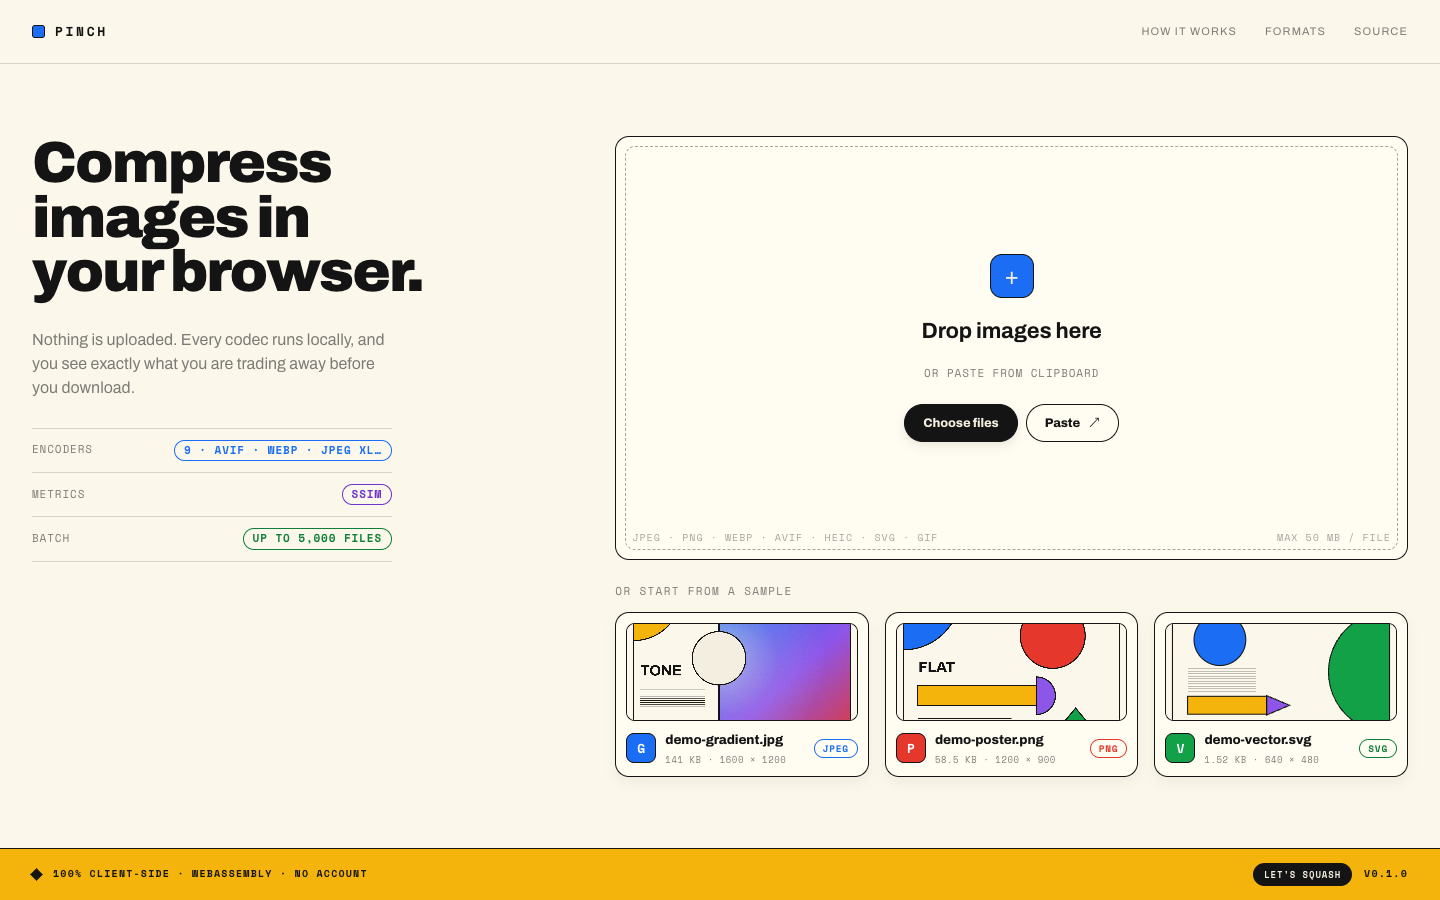
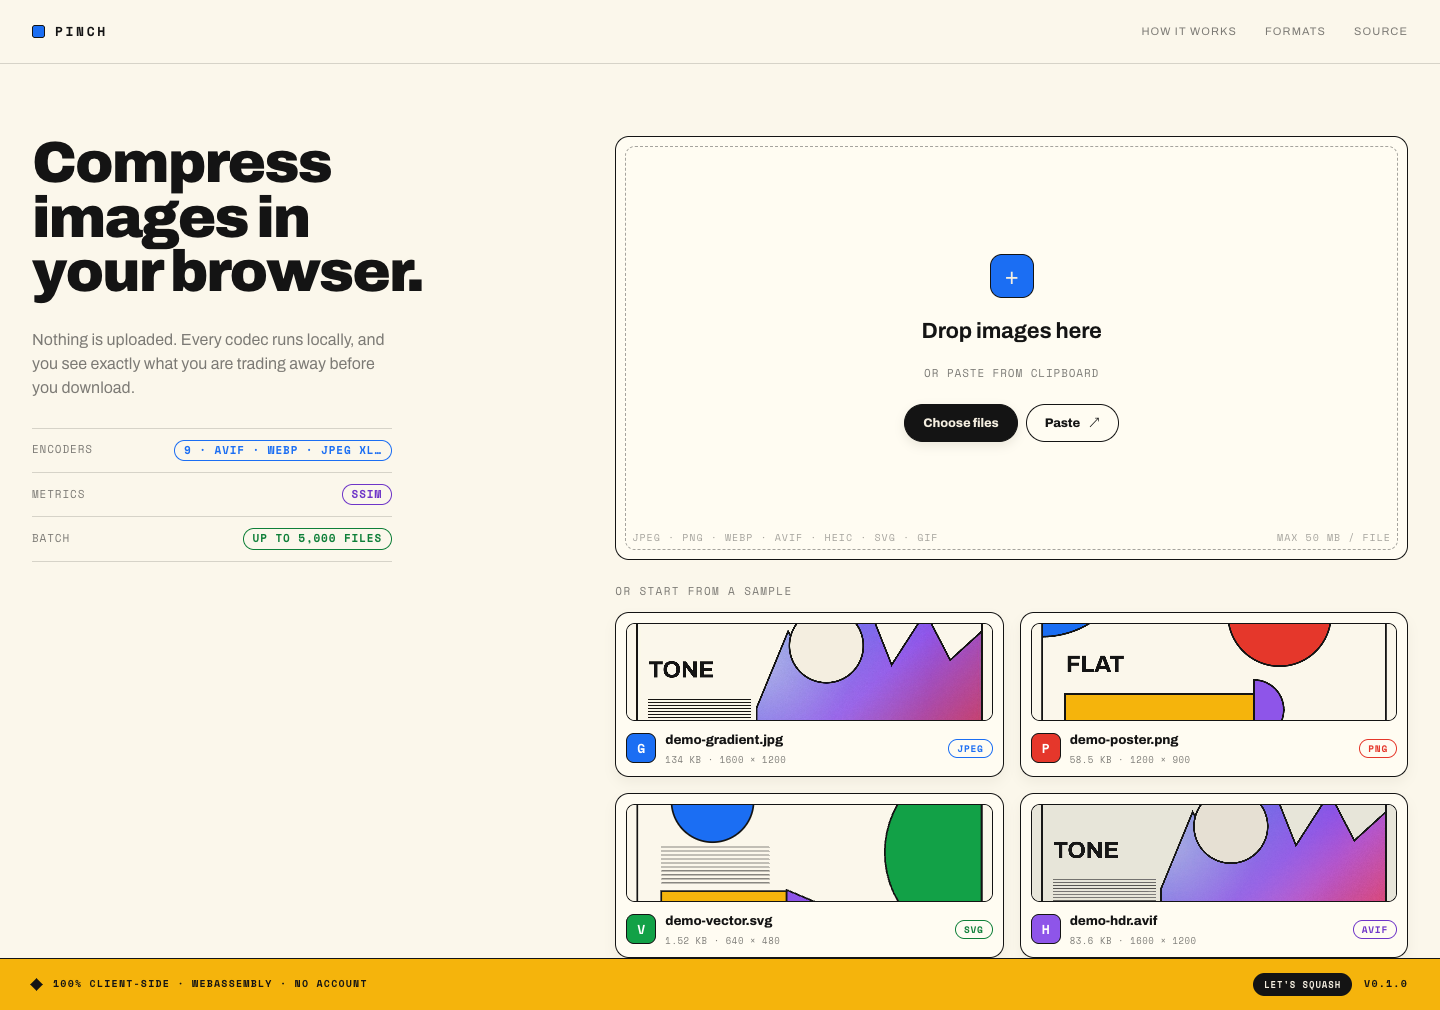
feat(demo): add a real 10-bit PQ HDR sample
The editor has an `HDR (PQ) → SDR` readout that nothing in the repo could
exercise: you had to bring your own phone photo. There is now a fourth
sample card that fires it.

It is a genuine PQ file, not an SDR image in an HDR container. A canvas is
8-bit sRGB and toDataURL emits SDR, so there is no browser path to PQ —
handing avifenc the SDR pixels with --cicp 9/16/9 would have produced a
file that claims PQ while carrying no highlight information, which Pinch
would then badge as HDR. Instead the transfer function is applied to real
values: sRGB → linear → nits → BT.2020 → ST 2084 → 10-bit 4:4:4 y4m →
avifenc. The two light sources in the artwork are treated as emissive and
carry 2× the headroom of diffuse white, so the file has somewhere for the
highlights to be.

Diffuse white sits at 500 nits rather than BT.2408's 203, and the constant
says why: nearly everyone sees this through an SDR tone-map, Chrome's puts
display white near 434 nits, and at 203 the sheet came back as 182,181,168
against the artwork's 251,247,235 — a grey wash that reads as a broken
decode. Swept and measured against the SDR JPEG at four probe points; 500
is the minimum, at a mean per-channel error of 14/255.

q90, chosen the same way: source grain measures 4.58 (sigma of a high-pass
over the mountain body) and decodes back at 3.71. q82 collapses it to 0.37
— a tone sample with no tone left — and q95 only recovers 4.29 for another
108 KB, which a file in the SW precache does not get to spend. 82 KB.
[…]

diff --git a/src/lib/codecs/hdr.test.ts b/src/lib/codecs/hdr.test.ts
@@ -1,6 +1,9 @@
+import { readFileSync } from 'node:fs';
+import { fileURLToPath } from 'node:url';
+
 import { describe, expect, it } from 'vitest';
 
-import { detectHdr, hdrLabel } from './hdr';
+import { HDR_SCAN_BYTES, detectHdr, hdrLabel } from './hdr';
 
 function ascii(text: string): number[] {
   return [...text].map((c) => c.charCodeAt(0));
@@ -61,6 +64,19 @@ describe('detectHdr', () => {
   it('returns undefined on plain SDR files and tiny buffers', () => {
     expect(detectHdr(new Uint8Array([0x89, 0x50]), 'image/png')).toBeUndefined();
     expect(detectHdr(new Uint8Array(0), 'image/heic')).toBeUndefined();
+  });
+
+  /**
+   * The one case here that reads a real file. `public/demo/demo-hdr.avif` is a
+   * bundled sample whose entire reason to exist is to light this detector up on
+   * the home screen, and it is produced by a tool outside the npm tree
+   * (`node scripts/generate-assets.mjs hdr`, which shells out to avifenc). A
+   * synthetic fixture cannot notice that asset losing its PQ tag; this can.
+   */
+  it('detects the bundled HDR sample as PQ', () => {
+    const file = fileURLToPath(new URL('../../../public/demo/demo-hdr.avif', import.meta.url));
+    const head = readFileSync(file).subarray(0, HDR_SCAN_BYTES);
+    expect(detectHdr(new Uint8Array(head), 'image/avif')).toEqual({ kind: 'pq' });
   });
 });
 

diff --git a/vite.config.ts b/vite.config.ts
@@ -74,7 +74,12 @@ export default defineConfig({
         // Shell only: JS/CSS/HTML/icons/manifest. Codec wasm is
         // deliberately excluded (see sw.ts) and runtime-cached instead —
         // it's large and only some codecs get used per session.
-        globPatterns: ['**/*.{js,css,html,ico,png,jpg,jpeg,svg,webmanifest}'],
+        //
+        // `avif` is here for one file, `public/demo/demo-hdr.avif`: the sample
+        // cards have to keep working with the network off like the rest of the
+        // shell, and without this extension the HDR card would be the only one
+        // that 404s offline.
+        globPatterns: ['**/*.{js,css,html,ico,png,jpg,jpeg,svg,avif,webmanifest}'],
         // Codec-sized JS stays out of the shell precache — sw.ts runtime-caches
         // it in the wasm tier on first HEIC decode instead.
         globIgnores: [

diff --git a/README.md b/README.md
@@ -45,7 +45,8 @@ the app works with the network switched off once it has been loaded.
 - **HDR-aware input** — PQ and HLG (read from the CICP transfer characteristic in
   AVIF/HEIC/HEIF) and gain-map HDR (Ultra HDR JPEG, Apple HEIC) are detected and
   labelled. Pixels are tone-mapped to SDR for encoding and the UI says so rather than
-  pretending the pipeline is HDR.
+  pretending the pipeline is HDR. One of the bundled samples is a genuine 10-bit PQ
+  AVIF, so the path is one click from the home screen.
 - **SSIM metrics** — a real structural-similarity score for every encode, computed in a
   dedicated worker and reported with a plain-language verdict (`Excellent`, `Soft`,
   `Watch skies`…). Unmeasurable cases (resize on, so the grids differ) say

diff --git a/docs/FAQ.md b/docs/FAQ.md
@@ -44,6 +44,10 @@ markers (Ultra HDR JPEG, Apple HEIC), then labels the source `HDR (PQ)`, `HDR (H
 decoder ran. The output is honest SDR, and the interface says so instead of implying
 your highlights survived.
 
+The fourth sample on the home screen, `demo-hdr.avif`, is a real 10-bit PQ file (BT.2020
+primaries, a 950-nit highlight) if you want to see that path without digging a photo out
+of your phone.
+
 Proper HDR output would mean a 10-bit-or-higher pipeline, a colour-management story for
 the preview canvas, and gain-map muxing on export. That is a different application, not
 a flag.
